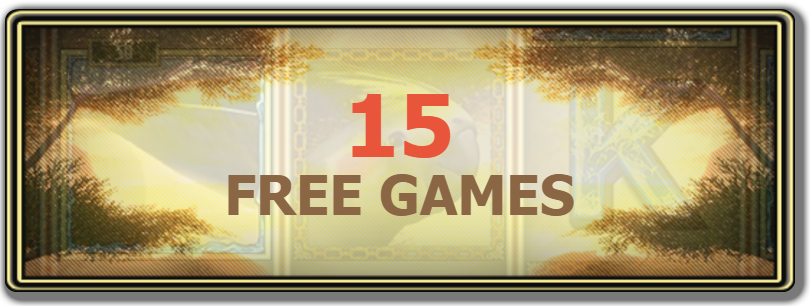
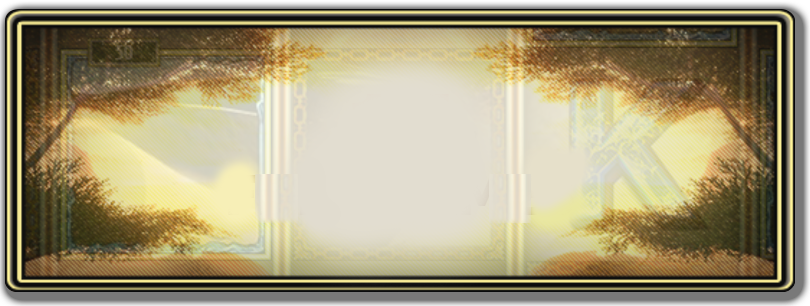
true savannaqueen done

Changed region(s): [[0.2469, 0.1471, 0.7099, 0.8824]]

diff --git a/resources/assets/sass/divslot/games/savannaqueen.scss b/resources/assets/sass/divslot/games/savannaqueen.scss
@@ -1,78 +1,16 @@
-@import "../reset";
-@import "../fonts";
-@import "../animations";
-@import "../media";
-@import "../preloader";
-@import "../panel";
+@import "../game_types/with_borders";
 
-* {
-    -webkit-user-select: none;
-    -moz-user-select: none;
-    -ms-user-select: none;
-    user-select: none;
-}
-
-body {
-    font-family: "Oswald",  sans-serif;
-    overflow: hidden;
-}
-
-.game_wrapper {
-    position: fixed;
-    width: 1680px;
-    height: 1050px;
-}
-
-#game {
-    width: 1680px;
-    height: 1050px;
-    background: #080200;
-    overflow: hidden;
-    position: absolute;
-}
-.alert {
-    display: none;
-
-    position: absolute;
-    z-index: 600;
-    width: 100%;
-    height: 100%;
-
-    align-items: center;
-    justify-content: center;
-}
 .alert .content {
-    width: 50%;
-    min-width: 300px;
-    height: 50%;
-    min-height: 200px;
-    background: lightseagreen;
-    border-radius: 10px;
+    background: url('../img/games/savannaqueen/images/freeSpinBg.png');
+    width: 1015px;
+    height: 504px;
+    background-size: 100% 100%;
+    font-size: 36px;
+    font-weight: 900;
+    text-transform: uppercase;
 }
 .main {
-
-    width: 1680px;
-    height: 731px;
     background: url('../img/games/savannaqueen/game_bg.png') center center;
-    background-size: contain;
-    position: absolute;
-}
-
-.reels_wrapper {
-    display: flex;
-    flex-direction: row;
-    justify-content: center;
-    z-index: 1;
-    padding-top: 10px;
-    box-sizing: border-box;
-}
-
-.line_presenters_container {
-    display: flex;
-    flex-direction: column;
-    justify-content: space-between;
-    margin: 4px 13px 0;
-    height: 692px;
 }
 
 .line_presenter {
@@ -80,8 +18,8 @@ body {
 
     background-size: 100% 100%;
     font-size: 32px;
-    width: 54px;
-    height: 54px;
+    width: 53px;
+    height: 53px;
     border-radius: 5px;
     box-shadow: 0px 0px 5px 0px rgba(0,0,0,0.75);
     cursor: pointer;
@@ -90,28 +28,37 @@ body {
     align-items: center;
 }
 
-.reels_container {
-    display: flex;
-    position: relative;
-}
-
 .reel_wrapper {
     background: url('../img/games/savannaqueen/reel_bg.png');
-    background-size: cover;
-    position: relative;
-    overflow: hidden;
-}
-
-.reel {
-    position: absolute;
-    bottom: 0;
-    left: 0;
 }
 
 .header {
-    width: 100%;
-    height: 105px;
     background: url('../img/games/savannaqueen/header.png');
+}
+.gamble {
+    background: url('../img/games/savannaqueen/gamble/gamble_bg.png');
+    top: 155px;
+    width: 1397px;
+    height: 679px;
     background-size: 100% 100%;
+    border-radius: 20px;
 }
 
+.line_presenters_container {
+    &.left {
+        top: 14px;
+        left: 5px;
+        height: 642px;
+    }
+    &.right {
+        top: 8px;
+        right: 5px;
+        height: 650px;
+    }
+}
+
+.line_presenter {
+    border-radius: 50%;
+    width: 60px;
+    height: 60px;
+}

diff --git a/public/js/savannaqueen_settings.js b/public/js/savannaqueen_settings.js
@@ -1,6 +1,6 @@
 var settings = {
-    "symbolSize": 233,
-    "spaceBetweenReels": 35,
+    "symbolSize": 220,
+    "spaceBetweenReels": 30,
 
     "numOfRows": 3,
     "numOfReels": 5,
@@ -30,7 +30,7 @@ var settings = {
         {"image": "1.png"},
         {"image": "2.png"},
         {"image": "3.png"},
-        {"image": "4.png", "animation": "4Anim.png"},
+        {"image": "4.png"},
         {"image": "5.png"},
         {"image": "6.png"},
         {"image": "7.png"},
@@ -39,6 +39,8 @@ var settings = {
         {"image": "10.png"},
         {"image": "11.png"},
         {"image": "12.png"},
-        {"image": "13.png"}
-    ]
+        {"image": "13.png", "isScatter": true}
+    ],
+
+    "presentersDefaultColor": "rgb(0,0,0)"
 }

diff --git a/app/Game/Games/SavannaQueen.php b/app/Game/Games/SavannaQueen.php
@@ -6,8 +6,8 @@ use App\Game\Games\Game;
 
 class SavannaQueen extends Game {
     public static $reelsAmount = 5;
-    public static $scatter = 13;
-    public static $joker = 7;
+    public static $scatter = 12;
+    public static $joker = 6;
     public static $freeSpinsAmount = 15;
     public static $symbolsAmount = 13;
     public static $paytable = [
@@ -31,11 +31,11 @@ class SavannaQueen extends Game {
     }
 
     public function spin() {
-        return $this->game->spin("checkForWinCombosScatterAsJoker");
+        return $this->game->spin("checkForWinCombos");
     }
 
     public function bonusSpin() {
-        return $this->game->bonusSpin("Substitution");
+        return $this->game->bonusSpin("FreeSpinsMultiplier");
     }
 
     public function areBonusSpins() {
